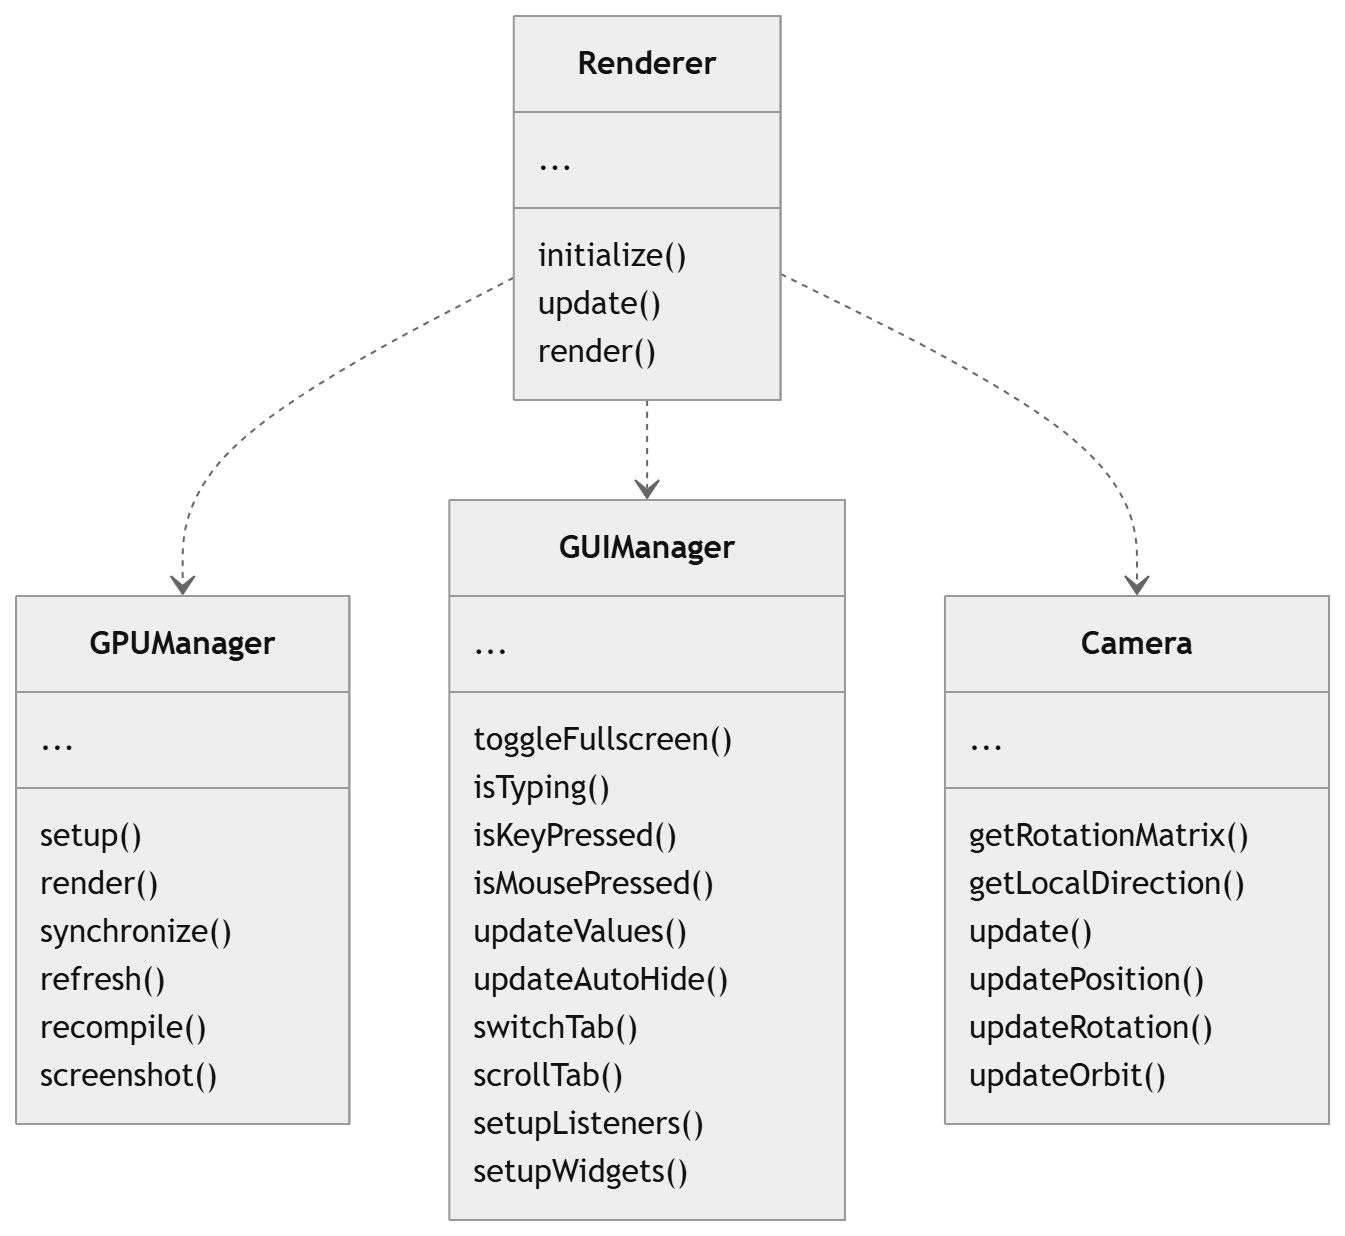
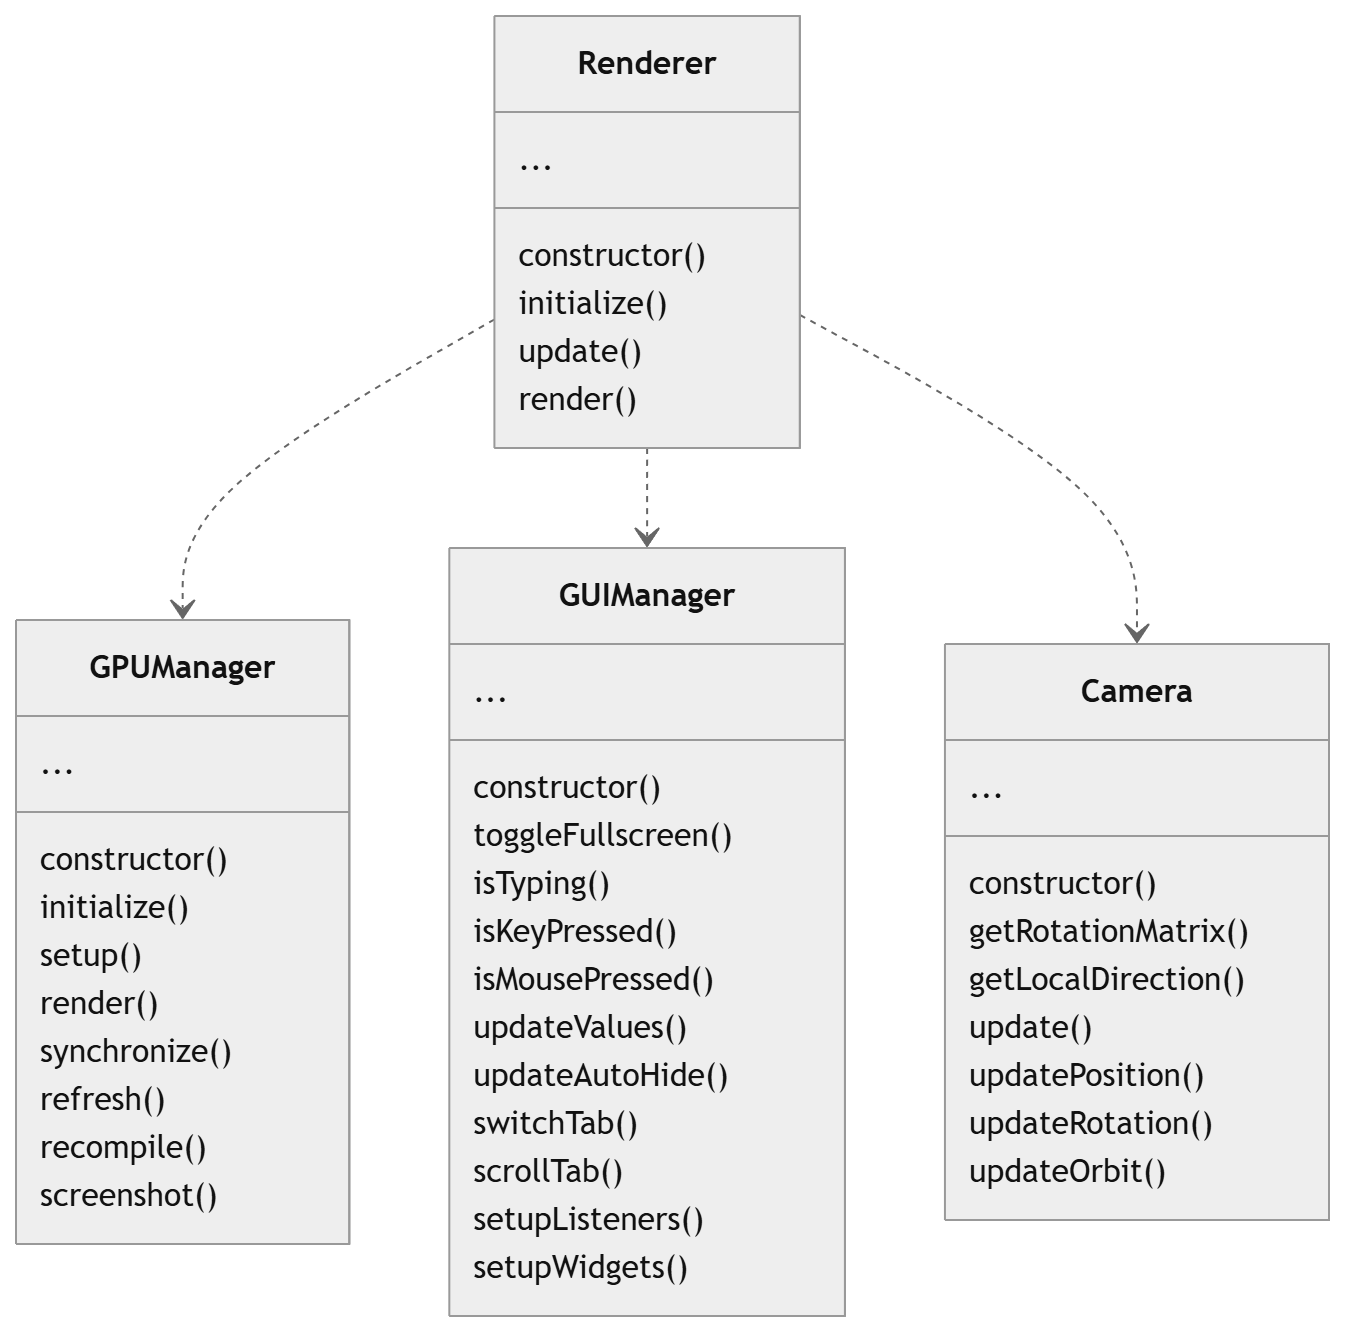
docs more images

diff --git a/docs/zavrad/zavrsni_rad.tex b/docs/zavrad/zavrsni_rad.tex
@@ -9,14 +9,15 @@
     lineskip=-0.5pt,
 	frame=single
 }
+\renewcommand{\lstlistingname}{Algoritam}
 
 \usepackage{xcolor}
 \newcommand{\todo}[1]{{\textcolor{red}{[#1]}}}
 
-\usepackage[]{algorithm2e}
-% \usepackage[linesnumbered, boxed, vlined]{algorithm2e}
-\renewcommand{\algorithmcfname}{Algoritam}
-\SetKwProg{Fn}{Function}{}{end}
+% \usepackage[]{algorithm2e}
+% % \usepackage[linesnumbered, boxed, vlined]{algorithm2e}
+% \renewcommand{\algorithmcfname}{Algoritam}
+% \SetKwProg{Fn}{Function}{}{end}
 
 %--- PODACI O RADU / THESIS INFORMATION ----------------------------------------
 
@@ -99,6 +100,8 @@
 \label{pog:teorija}
 
 \section{Funkcije udaljenosti}
+\label{podpog:funkcije_udaljenosti}
+
 Postoji više načina na koje se može zapisati neko tijelo. U računalnoj grafici se najčešće trodimenzionalni modeli opisuju mrežom trokuta. Trokuti su praktični jer imaju jednostavnu strukturu i mogu se efikasno iscrtati. Unatoč toga, postoje nedostatci takvim pristupom. Da bi se postigla zakrivljena površina, potrebno je izgraditi površinu s velikim brojem trokuta. Time površina nikad neće biti uistinu zakrivljena, nego će se sastojati od diskretnih ravnih dijelova. Neke strukture (kao na primjer spužvaste strukture) zahtijevaju toliko veliki broj trokuta da mora se napraviti kompromis brisanjem detalja strukture radi optimizacije. Detalji se općenito dodaju modelima koristeći teksture, no u tim slućajevima stvarna geometrija još uvijek ostaje pojednostavljena.
 
 Način prikaza tijela koje će se razmatrati u ovom radu jer matematički opis. Specifično, ono što ovaj rad koristi su funkcije udaljenosti (\emph{eng. Signed Distance Function, SDF}). Oblik funkcije je sljedeći: $f(p)$. Gdje je $p$ točka u prostoru, a rezultat funkcije $f(p)$ je udaljenost te točke od površine tijela koju funkcija opisuje. Dimenzija prostora u kojem se mora nalaziti ulazna točka određuje funkcija. Primjer jedne takve funkcije za opis sfere je navedena ispod u jednađbi \eqref{eq:sdf}.
@@ -118,11 +121,9 @@ Slika \ref{slk:sdf} skicira vrijednosti funkcije udaljenosti pravokutnika. Crte 
 \end{figure}
 
 \section{Fraktali}
-Najčešće se koristi matematički zapis za opis jednostavnih oblika kao ravnine, sfere ili trokuta. Ako pokušavamo matematički opisati neki kompleksniji oblik kao na primjer zec, postane očito da će to biti teško. Može se pretpostaviti da je kompleksnost formule raste s kompleksnosti oblika. No, to nije uvijek slučaj. Ispada da jednostavna formula može napraviti vrlo detaljan oblik, a najbolji primjer toga su fraktali. Fraktali su objekti sa svojstvom samoponavljanja. Odnosno, postoji uzorak (ili \emph{pattern}) koji se ponavlja po modelu, na raznim mjestima i raznim veličinama. Ponavljanje tog uzorka može ići do beskonačnosti, što znaći da je fraktal u teoriji ima beskonačno detalja. Ovdje se funkcije daljine mogu korisiti za opis fraktala.
+\label{podpog:fraktali}
 
-Dobivanje kompleksnog oblika iz jednostavnih pravila.
-
-\todo{priroda}
+Fraktali su oblici sa svojstvom samoponavljanja. Odnosno, postoji uzorak (\emph{pattern}) ili neko svojstvo koji se ponavlja po modelu, na raznim mjestima i raznim veličinama. Ponavljanje tog uzorka može ići do beskonačnosti, što znaći da je fraktal u teoriji ima beskonačno detalja. Takve fraktalne strukture se mogu pronaći u prirodi, kao na primjer stabla, lišće (slika \ref{slk:fern}) i reljef površine Zemlje.
 
 \begin{figure}[htb]
 	\centering
@@ -131,9 +132,11 @@ Dobivanje kompleksnog oblika iz jednostavnih pravila.
 	\label{slk:fern}
 \end{figure}
 
-\newpage{}
+Najčešće se koristi matematički zapis za opis jednostavnih oblika kao ravnine, sfere ili trokuta. Ako pokušavamo matematički opisati neki kompleksniji oblik kao na primjer zec, postane očito da će to biti teško. Može se pretpostaviti da je kompleksnost formule raste s kompleksnosti oblika. No, to nije uvijek slučaj. Ispada da jednostavna formula može napraviti vrlo detaljan oblik, a dobar primjer toga su fraktali. Ovdje dođu funkcije daljine do koristi jer se mogu iskoristiti za opis fraktala.
 
 \section{Algoritam iscrtavanja}
+\label{podpog:algoritam_iscrtavanja}
+
 Cilj je postići prikaz fraktala. Potreban je algoritam koji uzima opis tijela u obliku funkcije u daljenosti i iscrtava trodimenzionalni prikaz tog tijela na ekranu. Koristiti će se metoda praćenja sfere, što je podvrsta metode koračenja zrake, što je još podvrsta metode praćenja zrake. Metoda praćenja zrake (\emph{engl. Ray Tracing}) određuje boju svakog piksela pomoću zrake koja počinje u očištu kamere i prolazi kroz taj piksel. Metoda koračenja (\emph{engl. Ray Marching}) zrake koristi definiranu zraku tako da postepeno korači u smjeru zrake tijekom računanja. Praćenje sfere (\emph{engl. Sphere Tracing}) dalje definira koračenje tako da je duljina svakog koraka određena na temelju funkcije udaljenosti. Prikazivanjem svakog skoka i pripadajuće vrijednosti udaljenosti se dobiva slika sfera (ili kružnica ako se gleda u 2D prostoru), što se može vidjeti na slici \ref{slk:spheretracing}.
 
 \begin{figure}[htb]
@@ -143,28 +146,30 @@ Cilj je postići prikaz fraktala. Potreban je algoritam koji uzima opis tijela u
 	\label{slk:spheretracing}
 \end{figure}
 
-Ispod je naveden pseudo-kod (Algoritam \ref{alg:spheretracing}) koji prikazuje postupak metode praćenja sfere. U svakoj iteraciji petlje se računa udaljenost pomoću funkcije udaljenosti i obavi se korak duljine te udaljenosti u smjeru zrake. Petlja završava kada je zraka dotaknula tijelo ili kada prođe granicu maksimalnog broja koraka. Mora se zadati granica koraka zbog slućaja kada zraka ne udari tijelo, nego nastavi koračiti u beskonačnost. Zbog nepreciznosti brojeva s pomičnim zarezom može doći do slučaja da zraka nikada ne dođe do udaljenosti nula od tijela. Pritom se za uvjet dodira dodaje varijabla \emph{epsilon}, koja ima vrijednost vrlo malog broja. 
+Ispod je naveden pseudo kôd (Algoritam \ref{alg:spheretracing}) koji prikazuje postupak metode praćenja sfere. U svakoj iteraciji petlje se računa udaljenost pomoću funkcije udaljenosti i obavi se korak duljine te udaljenosti u smjeru zrake. Petlja završava kada je zraka dotaknula tijelo ili kada prođe granicu maksimalnog broja koraka. Mora se zadati granica koraka zbog slućaja kada zraka ne udari tijelo, nego nastavi koračiti u beskonačnost. Zbog nepreciznosti brojeva s pomičnim zarezom može doći do slučaja da zraka nikada ne dođe do udaljenosti nula od tijela. Pritom se za uvjet dodira dodaje varijabla \emph{epsilon}, koja ima vrijednost vrlo malog broja. 
 
-\begin{lstlisting}[caption=test, label=alg:spheretracing]
-function pracenje_sfere(org, dir, max, epsilon)
+\begin{lstlisting}[caption=Algoritam praćenja sfere, label=alg:spheretracing]
+pracenje_sfere(org, dir, max, epsilon) {
 	// org - ishodiste zrake
 	// dir - smjer zrake
 	// max - maksimalan broj koraka
 	// epsilon - vrlo mali broj
 	pos = org
-	dist = +infinity
-	count = 0
-	while (dist > epsilon and count < max)
-		dist = sdf(pos)
+	for (count = 0; count < max; count++) {
+		dist = sdf(pos) // funkcija udaljenosti
+		if (dist < epsilon)
+			break;
 		pos += dir * dist
-		count += 1
+	}
 	return pos
+}
 \end{lstlisting}
 
 \chapter{Implementacija}
 \label{pog:implementacija}
 
 \section{Korišteni alati}
+\label{podpog:koristeni_alati}
 
 Primarni alat koji je korišten za ovaj rad je biblioteka \emph{WebGL2}. To je varijanta popularne grafičke biblioteke OpenGL koja je prilagođena za rad na internetskom pregledniku i jeziku \emph{JavaScript}. Mogućnost korištenja grafičkih funkcija na internetskom pregledniku ima mnoge prednosti: omogućuje grafičke vizualizacije unutar web stranica, izradu video igara koje su dostupne bez instaliravanja izvršne datoteke i generalni pristup procesorne moći grafićke kartice unutar \emph{JavaScript}. \emph{WebGL2} nije sasvim identičan OpenGL, jedna bitna razlika je što ne omogućuje izradu računskih sjenčara (\emph{engl. compute shaders}). Takvi sjenčari su pogodni za iscrtavanje temeljenom zrakama kao praćenje sfera, no moguće je izvesti takvo iscrtavanje koristeći sjenčare fragmenta.
 
@@ -175,12 +180,13 @@ Rezultat rada će se posluživati pomoću \emph{GitHub Pages}. To je praktično 
 \newpage{}
 
 \section{Komponente programa}
+\label{podpog:komponente_programa}
 
-Ovo poglavlje služi za kratak opis glavnih dijelova programa. To su četiri klase, koje se nalaze u skraćenom dijagramu razreda na slici \ref{slk:classes}. Klasa \textbf{\emph{Renderer}} upravlja svim ostalim dijelovima: poziva inicijalizaciju scene i sučelja, učitava pohranjene postavke i upravlja komunikacijom između objekata. Zatim je klasa \textbf{\emph{GPUManager}}, koja je najkompleksnija. Stvara \emph{WebGL2} kontekst, poziva \emph{WebGL2} funkcije, upravlja sjenčarima, sinkronizira rezoluciju ekrana i definira kako će se izvršiti postupak iscrtavanja okvira (detaljnije u sljedećem poglavlju). Klasa \textbf{\emph{GUIManager}} implementira funkcionalnosti korisničkog sučelja tako da pri učitavanju stranice sagradi sučelje i aktivno ažurira uniformne varijable sjenčara kada korisnik promijeni vrijednosti. Konačno je zadnja glavna klasa \textbf{\emph{Camera}}. Kamera služi kao kontejner informacija potrebnih za inicijalizaciju zraka i uoravlja tim podacima na temelju korisničkih ulaza tipkovnicom i mišem.
+Ovo poglavlje služi za kratak opis glavnih dijelova programa. Najvažniji dijelovi su četiri klase, koje se nalaze u skraćenom dijagramu razreda na slici \ref{slk:classes}. Klasa \textbf{\emph{Renderer}} upravlja svim ostalim dijelovima: poziva inicijalizaciju scene i sučelja, učitava pohranjene postavke i upravlja komunikacijom između objekata. Zatim je klasa \textbf{\emph{GPUManager}}, koja je najkompleksnija. Stvara \emph{WebGL2} kontekst, poziva \emph{WebGL2} funkcije, upravlja sjenčarima, sinkronizira rezoluciju ekrana i definira kako će se izvršiti postupak iscrtavanja okvira (detaljnije u sljedećem poglavlju). Klasa \textbf{\emph{GUIManager}} implementira funkcionalnosti korisničkog sučelja tako da pri učitavanju stranice sagradi sučelje i aktivno ažurira uniformne varijable sjenčara kada korisnik promijeni vrijednosti. Konačno je zadnja glavna klasa \textbf{\emph{Camera}}. Kamera služi kao kontejner informacija potrebnih za inicijalizaciju zraka i uoravlja tim podacima na temelju korisničkih ulaza tipkovnicom i mišem.
 
 \begin{figure}[htb]
 	\centering
-	\includegraphics[width=0.5\linewidth]{images/classes.png}
+	\includegraphics[width=0.75\linewidth]{images/classes.png}
 	\caption{Dijagram glavnih razreda}
 	\label{slk:classes}
 \end{figure}
@@ -188,16 +194,21 @@ Ovo poglavlje služi za kratak opis glavnih dijelova programa. To su četiri kla
 \newpage{}
 
 \section{Postupak iscrtavanja}
+\label{podpog:postupak_iscrtavanja}
 
-Iscrtavanje je stvaranje slike koja se prikaže na ekranu. Za virtualne scene s ciljem prikaza u stvarnom vremenu, frekvencija iscrtavanja mora biti dovoljno velika. Radi brzine, veliki dio postupka iscrtavanja je izveden hardverski i postoji definirani grafički protočni sustav kojeg se treba pridržavati da bi se nacrtao neki 3D model. U WebGL2 je ta struktura obavezna, odnosno nije moguće izvršiti crtanje 3D modela bez korištenja sjenčara geometrije (\emph{engl. vertex shader}) i sjenčara fragmenata (\emph{engl. fragment shader}). U ovome slučaju, modeli koje želimo prikazati se ne sastoje od trokuta i nije potrebna geometrijska faza pa bi bilo najbolje koristiti računske sjenčare. No, kao što je prije navedeno, \emph{WebGL2} ne omogućuje izradu računske sjenčare. Stoga je postupak iscrtavanja izveden onime što imamo.
+Iscrtavanje je stvaranje slike virtualne scene koja se prikazuje na ekranu. Za scene s ciljem prikaza u stvarnom vremenu, frekvencija iscrtavanja mora biti dovoljno velika. Radi brzine, veliki dio postupka iscrtavanja je izveden hardverski i postoji definirani grafički protočni sustav kojeg se treba pridržavati da bi se nacrtao neki 3D model. U WebGL2 je obavezno definirati barem sjenčara geometrije (\emph{engl. vertex shader}) i sjenčara fragmenata (\emph{engl. fragment shader}). U ovome slučaju, modeli koje želimo prikazati se ne sastoje od trokuta i tehnički nije potrebna geometrijska faza. Bilo bi praktično koristiti računske sjenčare (\emph{engl. compute shaders}), no kao što je prije navedeno, \emph{WebGL2} ne omogućuje izradu računskih sjenčara. Stoga je postupak iscrtavanja izveden onime što imamo i što moramo koristiti. U nastavku će biti objašnjeni postupak iscrtavanja u sastavljenom programu i biti će navedeni ključni objekti koji se koriste pri iscrtavanju. Slika \ref{slk:pipeline} prikazuje vizualno redoslijed grafičkih programa i objekte koji se opisuju.
 
-\todo{Crtanje jednog okvira se izvodi u dva poziva na crtanje (\emph{engl. draw calls}). U svakom pozivu na crtanje se izvodi standardna grafička protočna struktura za \emph{WebGL2}: sjenčar geometrije se iterira po točkama modela i sjenčar fragmenata se iterira po fragmentima. Jedini model koji se koristi je kvadrat (dvoje trokuta) koji pokriva cijeli ekran. Taj model i geometrijski sjenčar se koriste za oba poziva za crtanje. Prvo iscrtavanje izvodi algoritam praćenje sfere, obavi sjenčanje, uzima u obzir boju prošlog okvira i rezultat se sprema u privremeni spremnik. Nije moguće iz jednog spremnika čitati i pisati u ist vrijeme, stoga je napravljeni par spremnika koji zajedno čine \emph{ping-pong buffer}. Jedan spremnik služi za čitanje, a drugi za pisanje. Nakon svakog iscrtavanja se uloga tih spremnika zamijeni. Potrebno je imati informacije o prošlom okviru jer se koristi \emph{anti-aliasing} metoda preko akumulacijskog spremnika. U drugom pozivu na crtanje se uzima slika u međuspremniku, podesi se boja i iscrta se u prikaznu memoriju za ekran. Prednost korištenja dvoje poziva na crtanje je to što prvi poziv može biti obavljen u manjoj rezoluciji, a drugi poziv skalira rezultat u rezoluciju koja je potrebna za ekran.}
+Crtanje jednog okvira se izvodi u dva poziva na crtanje (\emph{engl. draw calls}). U svakom pozivu na crtanje se izvodi standardna grafička protočna struktura: sjenčar geometrije se iterira po točkama modela i sjenčar fragmenata se iterira po fragmentima. Jedini pravi model koji se koristi je kvadrat (dvoje trokuta) koji pokriva cijeli ekran. Geometrijski sjenčar samo prosljeđuje pozicije točaka modela kvadrata i ništa drugo. Model i geometrijski sjenčar su identična za oba poziva za crtanje. Gotovo sva logika koja se opisuje je u sjenčarima fragmenta.
+
+Prvo iscrtavanje izvodi algoritam praćenje sfere i obavi sjenčanje. Za izračun boje piksela se uzima u obzir boja prošlog okvira. Pošto nije moguće iz istog spremnika čitati i pisati u ist vrijeme, napravljeni je par spremnika koji zajedno čine \emph{ping-pong buffer}. U jednom iscrtavanju, jedan spremnik služi za čitanje, a drugi za pisanje. Nakon svakog iscrtavanja se uloga tih spremnika zamijeni. Taj par spremnika koji omogućuje programu pristup informacijama o prošlom okviru se koristi uklanjanje alias artifakta, izvedbu praćenja zraka i opcionalan efekt fokusa kamere.
 
 \newpage{}
 
+Drugi poziv uzima sliku u međuspremniku, podesi joj boju i prikaže rezultat na \emph{canvas} element stranice. Korist dvoje poziva za crtanje je to što se u prvom pozivu (koji više računski intenzivan) može iscrtati slika manje rezolucije, a zatim se u drugom može skalirati međurezultat u rezoluciju za prikazivanje. 
+
 \begin{figure}[htb]
 	\centering
-	\includegraphics[width=0.5\linewidth]{images/pipeline.png}
+	\includegraphics[width=0.75\linewidth]{images/pipeline.png}
 	\caption{Dijagram postupka iscrtavanja}
 	\label{slk:pipeline}
 \end{figure}
@@ -205,66 +216,176 @@ Iscrtavanje je stvaranje slike koja se prikaže na ekranu. Za virtualne scene s 
 \newpage{}
 
 \section{Korisničko sučelje}
+\label{podpog:korisnicko_sucelje}
 
-Dizajn korisničkog sučelja je napravljen koristeći standardnih \emph{HTML} elementa i \emph{CSS} pravila, a funkcionalnost sučelja je ostvarena u \emph{JavaScript}. Cilj sučelja je bilo omogućiti korisniku pristup što većem broju varijabla. Uz kretanje kroz virtualni prostor, ostvarena je mogućnost podešavanja načina prikaza i čak mijenjanje funkcija daljine koje se prikazuju. Tekst sučelja je na engleskom jeziku. Upravljanje varijablama je ostvareno raznim kontrolama kao gumbovi, slajderi, unos brojeva, itd. Većinu elemenata imaj kratak opis koji se pojavi ako se kratko vrijeme ostavi miš iznad njih. Slike ispod su korisničko sučelje na stolnom računalu (slika \ref{slk:desktop}) i na mobilnom uređaju (slika \ref{slk:mobile}). 
+Dizajn korisničkog sučelja je napravljen koristeći standardnih \emph{HTML} elementa i \emph{CSS} pravila, a funkcionalnost sučelja je ostvarena u \emph{JavaScript}. Izgled sučelja je vidljiv na slici \ref{slk:ui}. Cilj sučelja je bilo omogućiti korisniku pristup što većem broju varijabla. Uz kretanje kroz virtualni prostor, ostvarena je mogućnost podešavanja načina prikaza i čak mijenjanje funkcija daljine koje se prikazuju. Tekst sučelja je na engleskom jeziku. Upravljanje varijablama je ostvareno raznim kontrolama kao gumbovi, slajderi, unos brojeva, itd. Većinu elemenata imaj kratak opis koji se pojavi ako se kratko vrijeme ostavi miš iznad njih.
 
 Sučelje je podijeljeno u četiri kartice: generalne postavke, postavke vezane uz praćenje sfere, unos funkcije daljine i informacije o kontrolama. U kartici za informacije o kontrolama jer samo tekstualni opis gumbova na tipkovnici i njihovih pripadajućih funkcionalnosti. Generalne postavke uključuju podešavanje kamere, rezolucije i slikanje ekrana. Postavke za praćenje sfere su više tehničke, imaju najveći utjecaj na brzinu iscrtavanja i mogu upravljati oblikom tijela. Konačno, u zadnjoj kartici se može unijeti funkcija daljine. Postoje kratke naputnice za izradu funkcija i jedan primjer koda.
-
-\newpage{}
 
 \begin{figure}[htb]
 	\centering
 	\includegraphics[width=1\linewidth]{images/ui.png}
-	\caption{Korisničko sučelje na stolnom računalu}
-	\label{slk:desktop}
+	\caption{Korisničko sučelje (lijevo: stolno računalo, desno: mobilni uređaj)}
+	\label{slk:ui}
 \end{figure}
 
-% \begin{figure}[htb]
-% 	\centering
-% 	\includegraphics[width=0.75\linewidth]{images/desktop.png}
-% 	\caption{Korisničko sučelje na stolnom računalu}
-% 	\label{slk:desktop}
-% \end{figure}
-
-% \begin{figure}[htb]
-% 	\centering
-% 	\includegraphics[width=0.30\linewidth]{images/mobile.png}
-% 	\caption{Korisničko sučelje na mobilnom uređaju}
-% 	\label{slk:mobile}
-% \end{figure}
-
 \newpage{}
 
-\section{Prikaz funkcija udaljenosti}
+\section{Unos funkcije}
+\label{podpog:unos_funkcije}
 
-\todo{pomaknuti algoritam ovdje?}
+Funkcija daljine se unosi u tekstualni okvir u obliku izvornog programskog koda jezika \emph{GLSL}. \emph{GLSL} je progmramski jezik za sjenčare kojeg koristi \emph{WebGL2}. Nakon unosa se treba kliknuti gumb za kompajliranje da bi se primijenio kod. Prvo se izbriše postojeći program koji \emph{WebGL2} koristi za iscrtavanje, zatim se uneseni izvorni kod u obliku teksta spoji zajedno s izvornim kodom ostatka sjenčara fragmenta. Konačno se novi spojeni izvorni kod pošalje grafičkoj kartici, kompajlira se i stvori se novi program za iscrtavanje. Ako dođe do greške pri kompajliranju (kao na primjer sintaksna greška unesenog koda), funkcija daljine će se zamijeniti zadanom defaultnom funkcijom i ispisati će se poruka koja daje informaciju o greški radi jednostavnijeg popravljanja koda. 
 
-\subsection{Unos funkcije}
+Defaultna funkcija daljine koja se koristi kada se početno pokrene program ili kada dođe do greške u kompaliranju je navedena u algoritmu \ref{alg:sdf2}. To je ujedino i implementacija formule \ref{eq:sdf} iz podpoglavlja \ref{podpog:funkcije_udaljenosti} za oblik sfere. Sfera se nalazi u centru koordinatnog sustava i radius sfere poprima vrijednost varijable \emph{uniforms.custom\_b}. Program ima nekoliko uniformnih varijabla sjenčara koje su namjenje za korištenje u funkcijama daljine (u to je uključena \emph{uniforms.custom\_b}). Te varijable omogućuju podešavanje vrijednosti proizvoljnih brojeva u funkciji kroz sučelje tako da nije potrebno ponovno prevođenje koda nakon svake promijene.
 
-Funkcija daljine se unosi u tekstualni okvir u obliku izvornog programskog koda jezika \emph{GLSL}. \emph{GLSL} je progmramski jezik za sjenčare kojeg koristi \emph{WebGL2}. Nakon unosa se treba kliknuti gumb za kompajliranje da bi se primijenio kod. Prvo se izbriše postojeći program koji \emph{WebGL2} koristi za iscrtavanje, zatim se uneseni izvorni kod u obliku teksta spoji zajedno s izvornim kodom ostatka sjenčara fragmenta. Konačno se novi spojeni izvorni kod pošalje grafičkoj kartici, kompajlira se i stvori se novi program za iscrtavanje. Ako dođe do greške pri kompajliranju (kao na primjer sintaksna greška unesenog koda), funkcija daljine će se zamijeniti zadanom defaultnom funkcijom i ispisati će se poruka koja daje informaciju o greški radi jednostavnijeg popravljanja koda. \todo{referencirati kod}
-
-\newpage{}
-
-% \begin{lstlisting}[language=C, caption=Example Python Code, frame=tb]
-\begin{lstlisting}
-	float SDF(vec3 p) {
-		float radius = uniforms.custom_b;
-		return length(p) - radius;
-	}
+\begin{lstlisting}[caption=Implementacija funkcije daljine za sferu, label=alg:sdf2]
+float SDF(vec3 p) {
+	float radius = uniforms.custom_b;
+	return length(p) - radius;
+}
 \end{lstlisting}
 
-\subsection{Ponuđeni fraktali}
-\todo{mandelbox, mandelbulb, koch curve, julia bulb}
-\todo{slike}
+\newpage{}
 
-\subsection{Načini prikaza}
+\section{Ugrađeni fraktali}
+\label{podpog:ugradjeni_fraktali}
 
+Sučelje nudi odabir funkcije udaljenosti koja se prikazuje. Prvi odabir je \emph{"Custom"}, što znaći da prikazuje funkciju koja se nalazi u polju za unos funkcije. A druge opcije su gotove funkcije četiri popularnih fraktala: \emph{mandelbox} \cite{mandelbox} (Slika \ref{slk:mandelbox}), \emph{mandelbulb} \cite{mandelbulb} (Slika \ref{slk:mandelbulb}), Kochova krivulja \cite{kochcurve} (Slika \ref{slk:kochcurve}) i \emph{juliabulb} \cite{juliabulb} (Slika \ref{slk:juliabulb}). Funkcije tih fraktala su pronađene na internetu, te se njihovi linkovi nalaze u literaturi.
 
+\begin{figure}[htbp]
+    \centering
+    \begin{tabular}{cc}
+        \begin{minipage}{0.25\textwidth}
+            \centering
+            \includegraphics[width=\linewidth]{images/mandelbox.png}
+            \captionof{figure}{Mandelbox}
+            \label{slk:mandelbox}
+        \end{minipage} &
+        \begin{minipage}{0.25\textwidth}
+            \centering
+            \includegraphics[width=\linewidth]{images/mandelbulb.png}
+            \captionof{figure}{Mandelbulb}
+            \label{slk:mandelbulb}
+        \end{minipage} \\
+        \begin{minipage}{0.25\textwidth}
+            \centering
+            \includegraphics[width=\linewidth]{images/kochcurve.png}
+            \captionof{figure}{Kochova krivulja}
+            \label{slk:kochcurve}
+        \end{minipage} &
+        \begin{minipage}{0.25\textwidth}
+            \centering
+            \includegraphics[width=\linewidth]{images/juliabulb.png}
+            \captionof{figure}{Juliabulb}
+            \label{slk:juliabulb}
+        \end{minipage}
+    \end{tabular}
+\end{figure}
 
-\todo{marches, normal, phong, pathtracing}
-\todo{slike}
+Za svakog od fraktala je moguće mijenjati nekoliko njegovih parametra. Slika \ref{slk:mandelbox_test} je primjer fraktala \emph{mandelbox} s različitim vrijednostima parametra. Interesantno je vidjeti koliko se karakteristike oblika promijene mijenjanjem par brojeva.
+
+\begin{figure}[htbp]
+    \centering
+    \begin{tabular}{ccc}
+        \begin{minipage}{0.25\textwidth}
+            \centering
+            \includegraphics[width=\linewidth]{images/mb1.png}
+        \end{minipage} 
+        &
+        \begin{minipage}{0.25\textwidth}
+            \centering
+            \includegraphics[width=\linewidth]{images/mb2.png}
+        \end{minipage}
+        &
+        \begin{minipage}{0.25\textwidth}
+            \centering
+            \includegraphics[width=\linewidth]{images/mb3.png}
+        \end{minipage}
+    \end{tabular}
+    \caption{\emph{mandelbox} s različitim parametrima}
+    \label{slk:mandelbox_test}
+\end{figure}
+
+\newpage{}
+
+\section{Načini prikaza}
+\label{podpog:nacini_prikaza}
+
+\subsection{Broj koraka}
+
+Prvi naćin prikaza objekata je temeljen na boju koraka kojih zraka napravi prije nego dotakne površinu. Broj koraka se preslikava na boju linearno: $[0,max] \gets [1,0]$, odnosno ako je broj koraka nula, boja piksela je bijela i ako je broj koraka došao do maksimuma, onda je boja crna. To rezultira  
+
+\begin{figure}[htbp]
+    \centering
+    \begin{tabular}{cc}
+        \begin{minipage}{0.38\textwidth}
+            \centering
+            \includegraphics[width=\linewidth]{images/ao1.png}
+            \captionof{figure}{Zraka koja ne prolazi blizu površine tijela}
+            \label{slk:ao1}
+        \end{minipage} &
+        \begin{minipage}{0.38\textwidth}
+            \centering
+            \includegraphics[width=\linewidth]{images/ao2.png}
+            \captionof{figure}{Zraka koja prolazi blizu površine tijela}
+            \label{slk:ao2}
+        \end{minipage} 
+    \end{tabular}
+\end{figure}
+
+\begin{figure}[htb]
+	\centering
+    \includegraphics[width=0.38\linewidth]{images/marches.png}
+    \caption{Prikaz temeljen na broju koraka zrake}
+    \label{slk:marches}
+\end{figure}
+
+\subsection{Normale}
+
+\todo{normal code}
+
+\subsection{Phongovo osvjetljenje}
+
+\todo{phong code}
+
+\subsection{Praćenje zrake}
+
+\todo{pathtracing code}
+
+\begin{figure}[htbp]
+    \centering
+    \begin{tabular}{cc}
+        \begin{minipage}{0.4\textwidth}
+            \centering
+            \includegraphics[width=\linewidth]{images/marches.png}
+            \captionof{figure}{Prikaz temeljen na broju koraka zrake}
+            \label{slk:marches2}
+        \end{minipage} &
+        \begin{minipage}{0.4\textwidth}
+            \centering
+            \includegraphics[width=\linewidth]{images/normals.png}
+            \captionof{figure}{Prikaz temeljen na vektoru normale površine}
+            \label{slk:normals2}
+        \end{minipage} \\
+        \begin{minipage}{0.4\textwidth}
+            \centering
+            \includegraphics[width=\linewidth]{images/phong.png}
+            \captionof{figure}{Prikaz s lokalnim osvjetljenjem i sjenama}
+            \label{slk:phong2}
+        \end{minipage} &
+        \begin{minipage}{0.4\textwidth}
+            \centering
+            \includegraphics[width=\linewidth]{images/pathtraced.png}
+            \captionof{figure}{Prikaz s globalnim osvjetljenjem}
+            \label{slk:pathtraced2}
+        \end{minipage}
+    \end{tabular}
+\end{figure}
+
+\newpage{}
 
 \section{Web stranica i izvorni kod}
+\label{podpog:web_stranica_i_izvorni_kod}
 
 Izvorni kod rada se nalazi na \emph{GitHub} repozitoriju preko sljedeće poveznice: \newline
 \url{https://github.com/martzin23/webgl2-fractal-raymarcher}
@@ -276,14 +397,22 @@ Aplikacija se izvodi na web pregledniku i kompatabilna je s mobilnim uređajima.
 
 \chapter{Rezultati i rasprava}
 \label{pog:rezultati_i_rasprava}
-\todo{kvaliteta}
-\todo{performanse}
+
+\todo{korisni su nacini prikaza, }
+
+\todo{usporedba performanse komp mob lap}
+
 \todo{slike}
+
+\todo{najtezi dijelovi}
+
+\todo{poboljsanja}
 
 %--- ZAKLJUČAK / CONCLUSION ----------------------------------------------------
 
 \chapter{Zaključak}
 \label{pog:zakljucak}
+
 \todo{zakljucak}
 
 %--- LITERATURA / REFERENCES ---------------------------------------------------